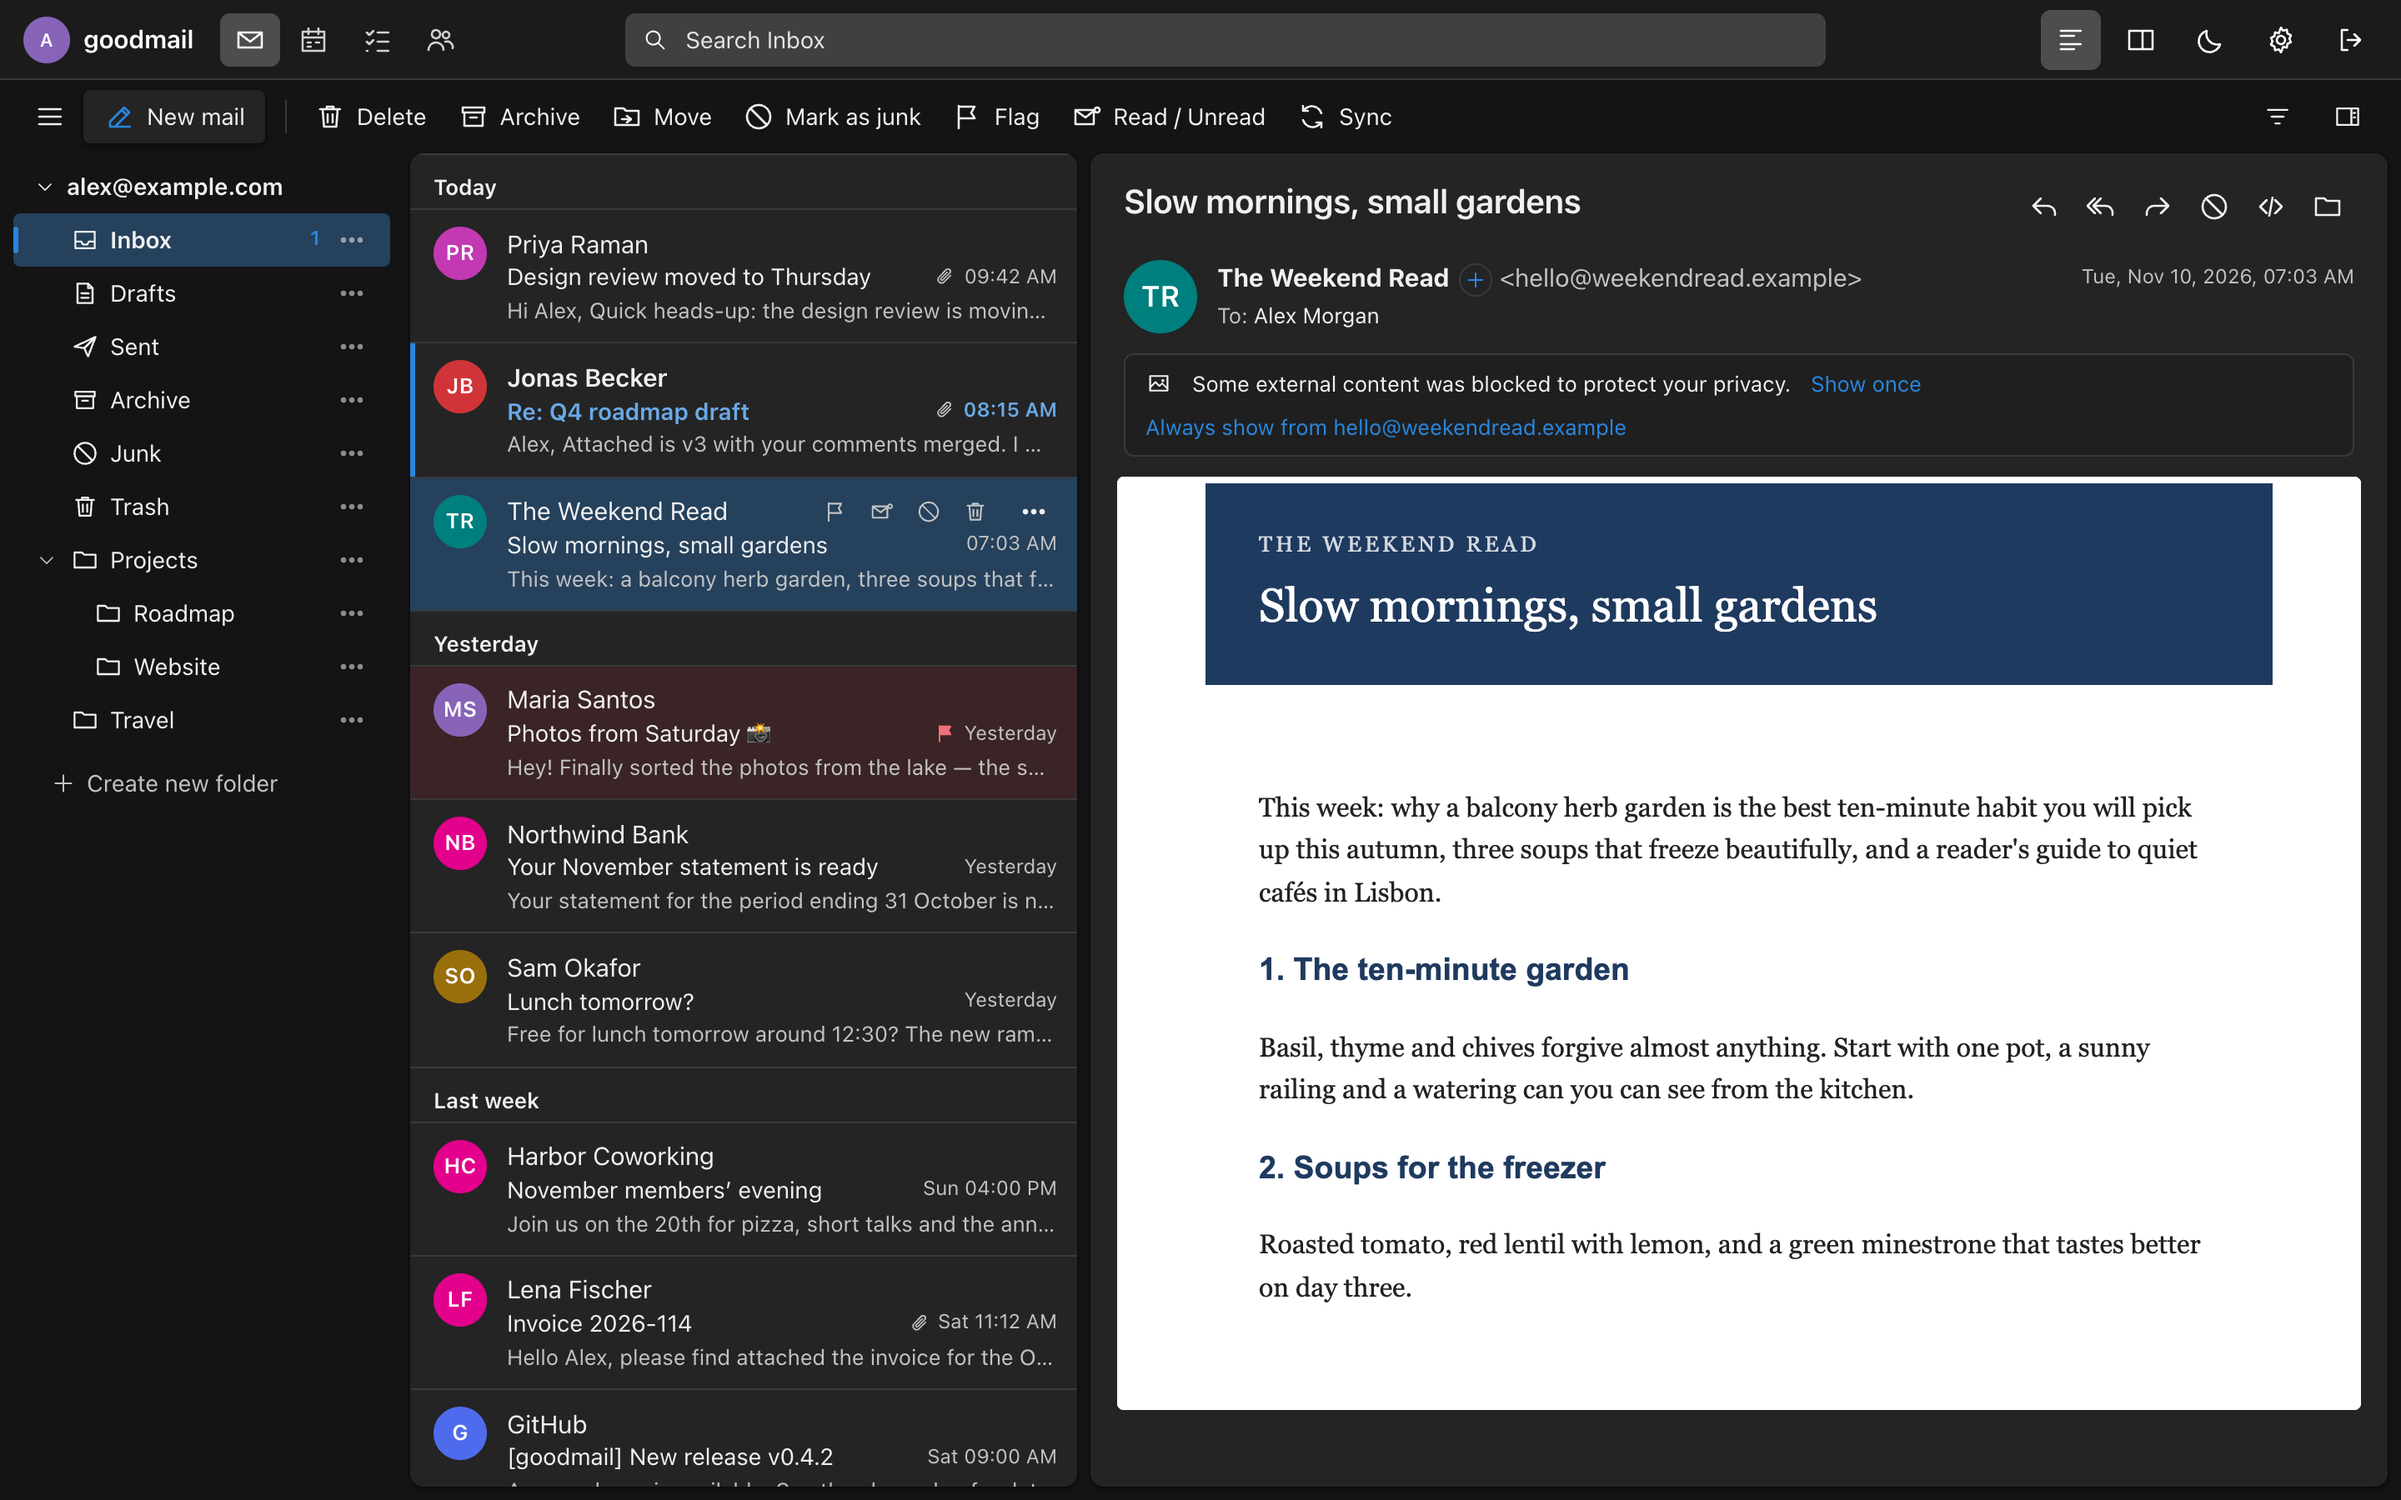
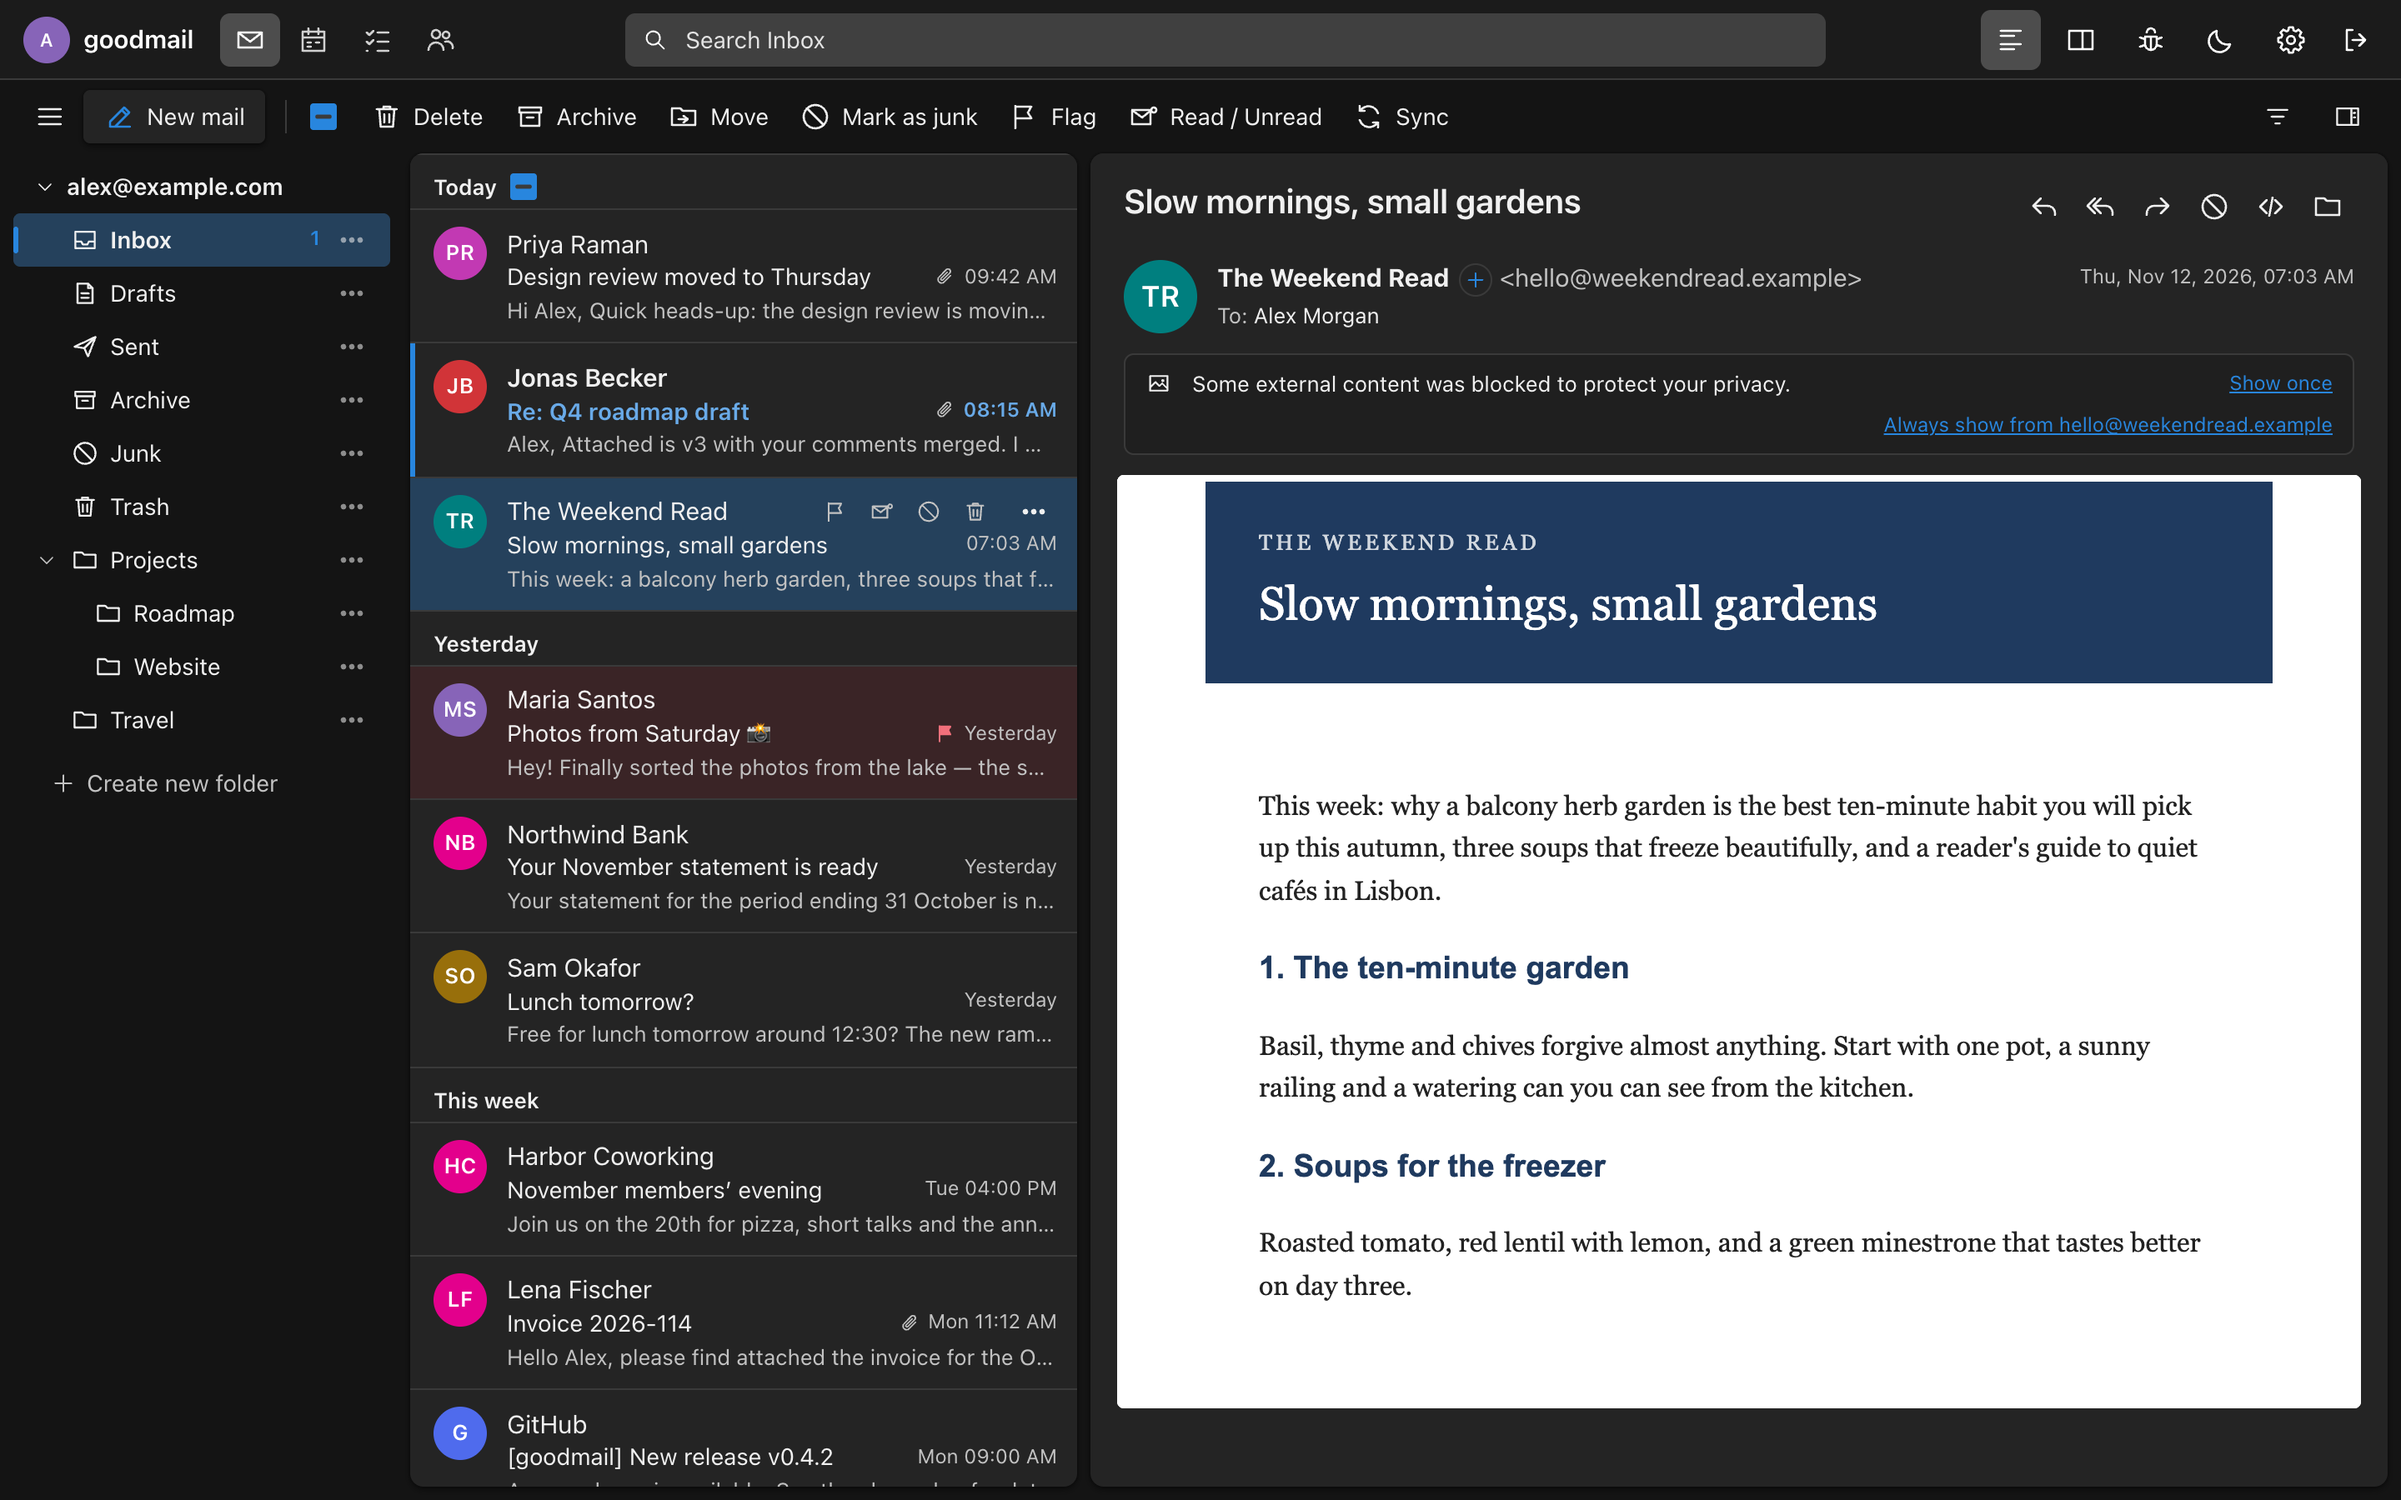
README: refresh screenshots, add Select all and Debug window shots; debug= in example config

diff --git a/README.md b/README.md
@@ -3,29 +3,31 @@
 A webmail client that talks plain IMAP + SMTP to **any** mail server, with an Outlook-style
 three-pane UI: folder tree, date-grouped message list with previews, reading pane, inline composer.
 
-![goodmail inbox with reading pane](docs/screenshots/mail-light.png?v=20261110)
+![goodmail inbox with reading pane](docs/screenshots/mail-light.png?v=20261112)
 
 | Dark mode, remote images blocked | Calendar — week view |
 |---|---|
-| ![Dark mode with a newsletter; tracking image blocked](docs/screenshots/mail-dark.png?v=20261110) | ![Calendar week view](docs/screenshots/calendar.png?v=20261110) |
+| ![Dark mode with a newsletter; tracking image blocked](docs/screenshots/mail-dark.png?v=20261112) | ![Calendar week view](docs/screenshots/calendar.png?v=20261112) |
 | **To-Do** — My Day, Important, Planned, your own lists | **Calendar side panel** — month and upcoming events |
-| ![To-Do with a task open](docs/screenshots/tasks.png?v=20261110) | ![Mail with the calendar side panel](docs/screenshots/side-panel.png?v=20261110) |
+| ![To-Do with a task open](docs/screenshots/tasks.png?v=20261112) | ![Mail with the calendar side panel](docs/screenshots/side-panel.png?v=20261112) |
 | **Folders** — ⋯ menu, subfolders, drag and drop | **Mail rules** — run on the server |
-| ![Folder menu with new subfolder, rename and delete](docs/screenshots/folders.png?v=20261110) | ![Mail rules list](docs/screenshots/rules.png?v=20261110) |
+| ![Folder menu with new subfolder, rename and delete](docs/screenshots/folders.png?v=20261112) | ![Mail rules list](docs/screenshots/rules.png?v=20261112) |
 | **Create a rule from any message** | **Composer** — signature and templates |
-| ![Rule editor pre-filled from a message](docs/screenshots/rule-editor.png?v=20261110) | ![Composer with signature and the templates menu](docs/screenshots/compose.png?v=20261110) |
+| ![Rule editor pre-filled from a message](docs/screenshots/rule-editor.png?v=20261112) | ![Composer with signature and the templates menu](docs/screenshots/compose.png?v=20261112) |
 | **S/MIME** — signed and encrypted message | **S/MIME settings** — certificate, CA, correspondents |
-| ![An encrypted, signed and verified message](docs/screenshots/smime.png?v=20261110) | ![Secure mail settings](docs/screenshots/smime-settings.png?v=20261110) |
+| ![An encrypted, signed and verified message](docs/screenshots/smime.png?v=20261112) | ![Secure mail settings](docs/screenshots/smime-settings.png?v=20261112) |
 | **Sign-in security** — password, 2-step, passkeys, reset address | **Address book** |
-| ![Sign-in security dialog](docs/screenshots/security.png?v=20261110) | ![Address book](docs/screenshots/contacts.png?v=20261110) |
+| ![Sign-in security dialog](docs/screenshots/security.png?v=20261112) | ![Address book](docs/screenshots/contacts.png?v=20261112) |
 | **Administration** — mailboxes and aliases of a domain | **Domains** — for the main administrator |
-| ![Administration: a domain's mailboxes](docs/screenshots/admin.png?v=20261110) | ![Administration: domains and their administrators (main administrator)](docs/screenshots/admin-domains.png?v=20261110) |
+| ![Administration: a domain's mailboxes](docs/screenshots/admin.png?v=20261112) | ![Administration: domains and their administrators (main administrator)](docs/screenshots/admin-domains.png?v=20261112) |
 | **View headers** — the raw header block | **Settings** — colour, date, time and language |
-| ![Raw message headers](docs/screenshots/headers.png?v=20261110) | ![Settings menu with the accent colours and dropdowns for date format, time format and language](docs/screenshots/settings-menu.png?v=20261110) |
+| ![Raw message headers](docs/screenshots/headers.png?v=20261112) | ![Settings menu with the accent colours and dropdowns for date format, time format and language](docs/screenshots/settings-menu.png?v=20261112) |
 | **Filter and sort** — unread, flagged, to me, has files; sort by date, from, subject, size or flag | |
-| <img src="docs/screenshots/filter-menu.png?v=20261110" alt="Filter and sort menu" width="45%"> | |
+| <img src="docs/screenshots/filter-menu.png?v=20261112" alt="Filter and sort menu" width="45%"> | |
+| **Select all** — toolbar tickbox, day-header tickboxes | **Debug window** — admin-only, what goodmail does in the background |
+| ![Select all: every message in the list selected, tickboxes on the toolbar and the day headers](docs/screenshots/select-all.png?v=20261112) | ![Debug window with browser calls, server calls and IMAP commands with timings](docs/screenshots/debug.png?v=20261112) |
 | **On a phone** | **Phone — folder drawer with ⋯ buttons** |
-| <img src="docs/screenshots/phone-list.png?v=20261110" alt="Message list on a phone" width="32%"> <img src="docs/screenshots/phone-message.png?v=20261110" alt="Reading a message on a phone" width="32%"> <img src="docs/screenshots/phone-move.png?v=20261110" alt="Moving a message on a phone" width="32%"> | <img src="docs/screenshots/phone-menu.png?v=20261110" alt="Folder drawer on a phone" width="60%"> |
+| <img src="docs/screenshots/phone-list.png?v=20261112" alt="Message list on a phone" width="32%"> <img src="docs/screenshots/phone-message.png?v=20261112" alt="Reading a message on a phone" width="32%"> <img src="docs/screenshots/phone-move.png?v=20261112" alt="Moving a message on a phone" width="32%"> | <img src="docs/screenshots/phone-menu.png?v=20261112" alt="Folder drawer on a phone" width="60%"> |
 
 <sub>Screenshots use invented demo data — see [scripts/screenshots](scripts/screenshots).</sub>
 
